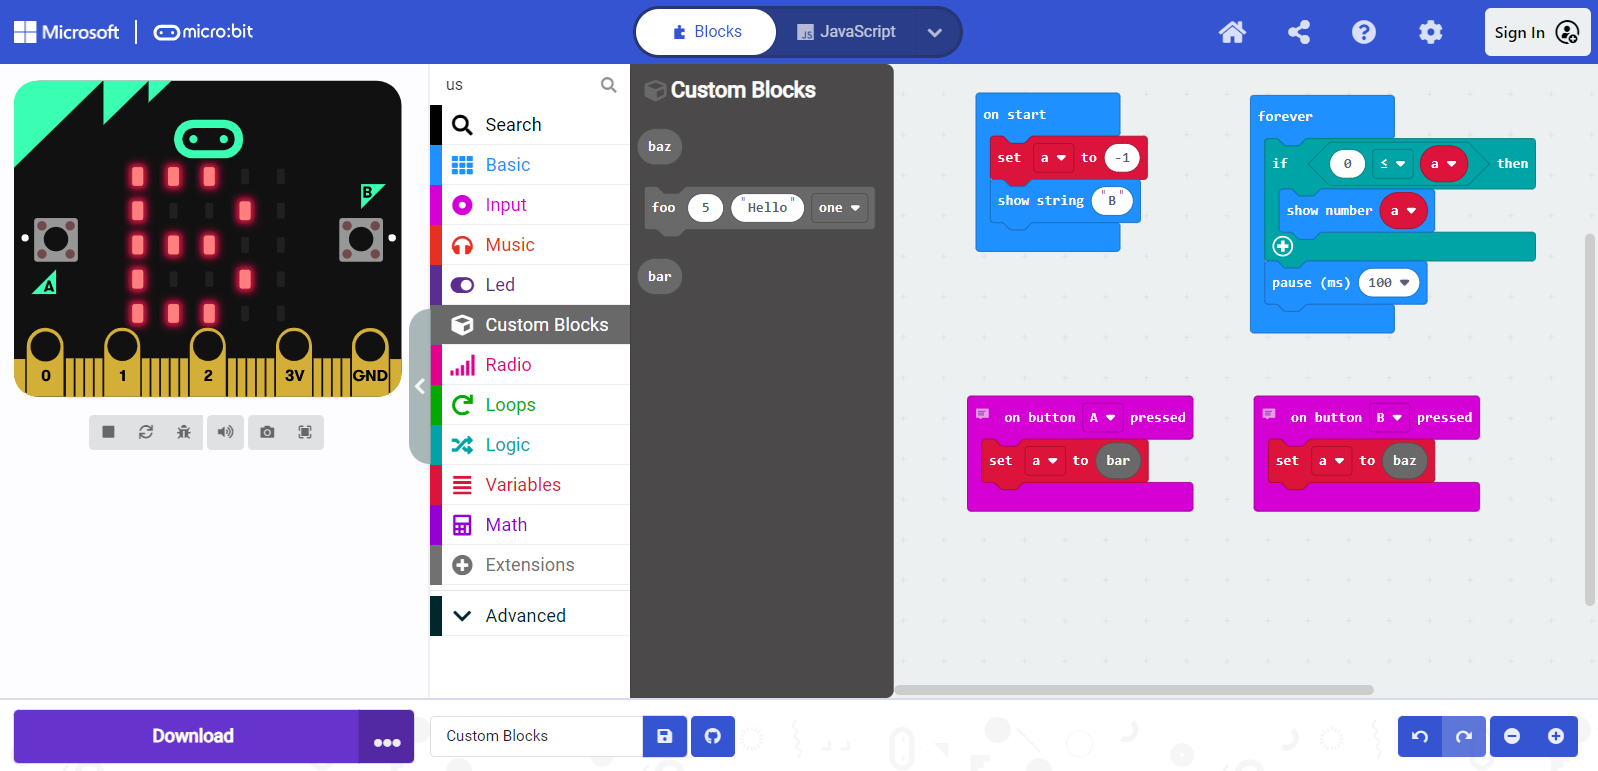
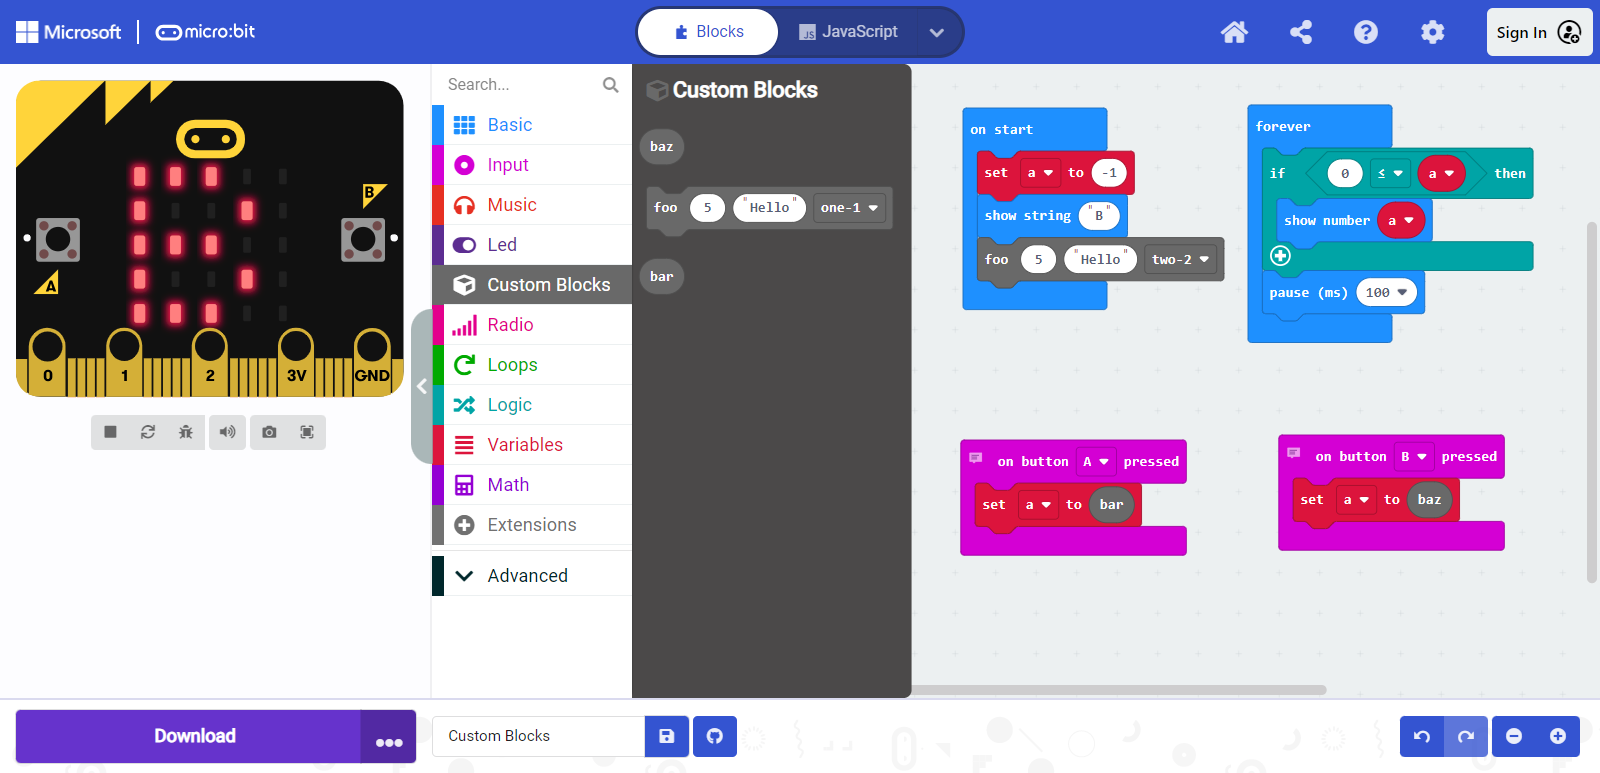
micro:bit Message Bus ID

diff --git a/enums.d.ts b/enums.d.ts
@@ -1,24 +1,3 @@
 // Auto-generated. Do not edit.
 
-
-    /**
-     * device runtime
-     */
-
-    declare const enum DEVICE_RUNTIME
-    {
-    /**
-     * simulator
-     */
-    RUNTIME_SIMU = 0,
-    /**
-     * dal - micro:bit v1
-     */
-    RUNTIME_DAL = 1,
-    /**
-     * codal - micro:bit v2
-     */
-    RUNTIME_CODAL = 2,
-    }
-
 // Auto-generated. Do not edit. Really.

diff --git a/shims.d.ts b/shims.d.ts
@@ -1,12 +1,3 @@
 // Auto-generated. Do not edit.
-declare namespace custom {
-
-    /**
-     * Block definition from C++, no implementation for simulator
-     * https://makecode.com/simshim
-     */
-    //% block shim=custom::bar
-    function bar(): int32;
-}
 
 // Auto-generated. Do not edit. Really.

diff --git a/src/custom.ts b/src/custom.ts
@@ -5,9 +5,9 @@
 */
 
 enum MyEnum {
-    //% block="one"
+    //% block="one-1"
     One,
-    //% block="two"
+    //% block="two-2"
     Two
 }
 

diff --git a/inc/CustomMicroBit.h b/inc/CustomMicroBit.h
@@ -1,0 +1,84 @@
+/*
+MIT License
+
+Copyright (c) 2021-2024 jp-rad
+
+Permission is hereby granted, free of charge, to any person obtaining a copy
+of this software and associated documentation files (the "Software"), to deal
+in the Software without restriction, including without limitation the rights
+to use, copy, modify, merge, publish, distribute, sublicense, and/or sell
+copies of the Software, and to permit persons to whom the Software is
+furnished to do so, subject to the following conditions:
+
+The above copyright notice and this permission notice shall be included in all
+copies or substantial portions of the Software.
+
+THE SOFTWARE IS PROVIDED "AS IS", WITHOUT WARRANTY OF ANY KIND, EXPRESS OR
+IMPLIED, INCLUDING BUT NOT LIMITED TO THE WARRANTIES OF MERCHANTABILITY,
+FITNESS FOR A PARTICULAR PURPOSE AND NONINFRINGEMENT. IN NO EVENT SHALL THE
+AUTHORS OR COPYRIGHT HOLDERS BE LIABLE FOR ANY CLAIM, DAMAGES OR OTHER
+LIABILITY, WHETHER IN AN ACTION OF CONTRACT, TORT OR OTHERWISE, ARISING FROM,
+OUT OF OR IN CONNECTION WITH THE SOFTWARE OR THE USE OR OTHER DEALINGS IN THE
+SOFTWARE.
+*/
+
+/**
+ * To prevent `micro:bit Message Bus ID` collisions between extensions,
+ * user-defined `Custom Message Bus ID`s are registered and managed
+ * in this header file.
+ *
+ * See the following repository and the latest header file.
+ * https://github.com/jp-rad/pxt-ubit-extension
+ * https://github.com/jp-rad/pxt-ubit-extension/blob/master/inc/CustomMicroBit.h
+ *
+ */
+
+#ifndef CUSTOMMICROBIT_H
+#define CUSTOMMICROBIT_H
+
+#include "MicroBitFiber.h"
+
+/**
+ * Status flags
+ * Universal flags used as part of the status field
+ */
+#ifndef MICROBIT_COMPONENT_RUNNING
+#define MICROBIT_COMPONENT_RUNNING 0x01
+#endif
+#define CUSTOM_COMPONENT_ADDED_TO_IDLE 0x02
+
+/**
+ * micro:bit Message Bus ID of listener : 1-65535
+ * Custom Message Bus ID : 32768-65535
+ */
+enum CUSTOM_BUS_ID
+{
+        /**
+         * S3Link UDK Event Bus ID.
+         * (32768 + 1024 + 1 = 33793)
+        */
+        CUSTOM_EVENT_ID_S3LINK_UDK = 33793,
+        // https://github.com/jp-rad/pxt-s3link-udk/
+
+        /**
+         * MState Update Event Bus ID.
+         * (32768 + 1024 + 5 = 33797)
+        */
+        CUSTOM_EVENT_ID_MSTATE_UPDATE = 33797,
+        // https://github.com/jp-rad/pxt-mstate/
+
+        /**
+         * Idle-Timer Interval Event Bus ID.
+         * (32768 + 1024 + 9 = 33801)
+         */
+        CUSTOM_EVENT_ID_IDLETIMER_INTERVAL = 33801,
+        /**
+         * Idle-Timer Timeout Event Bus ID.
+         * (32768 + 1024 + 10 = 33802)
+         */
+        CUSTOM_EVENT_ID_IDLETIMER_TIMEOUT = 33802,
+        // https://github.com/jp-rad/pxt-idle-timer/
+        
+};
+
+#endif // #ifndef CUSTOMMICROBIT_H
